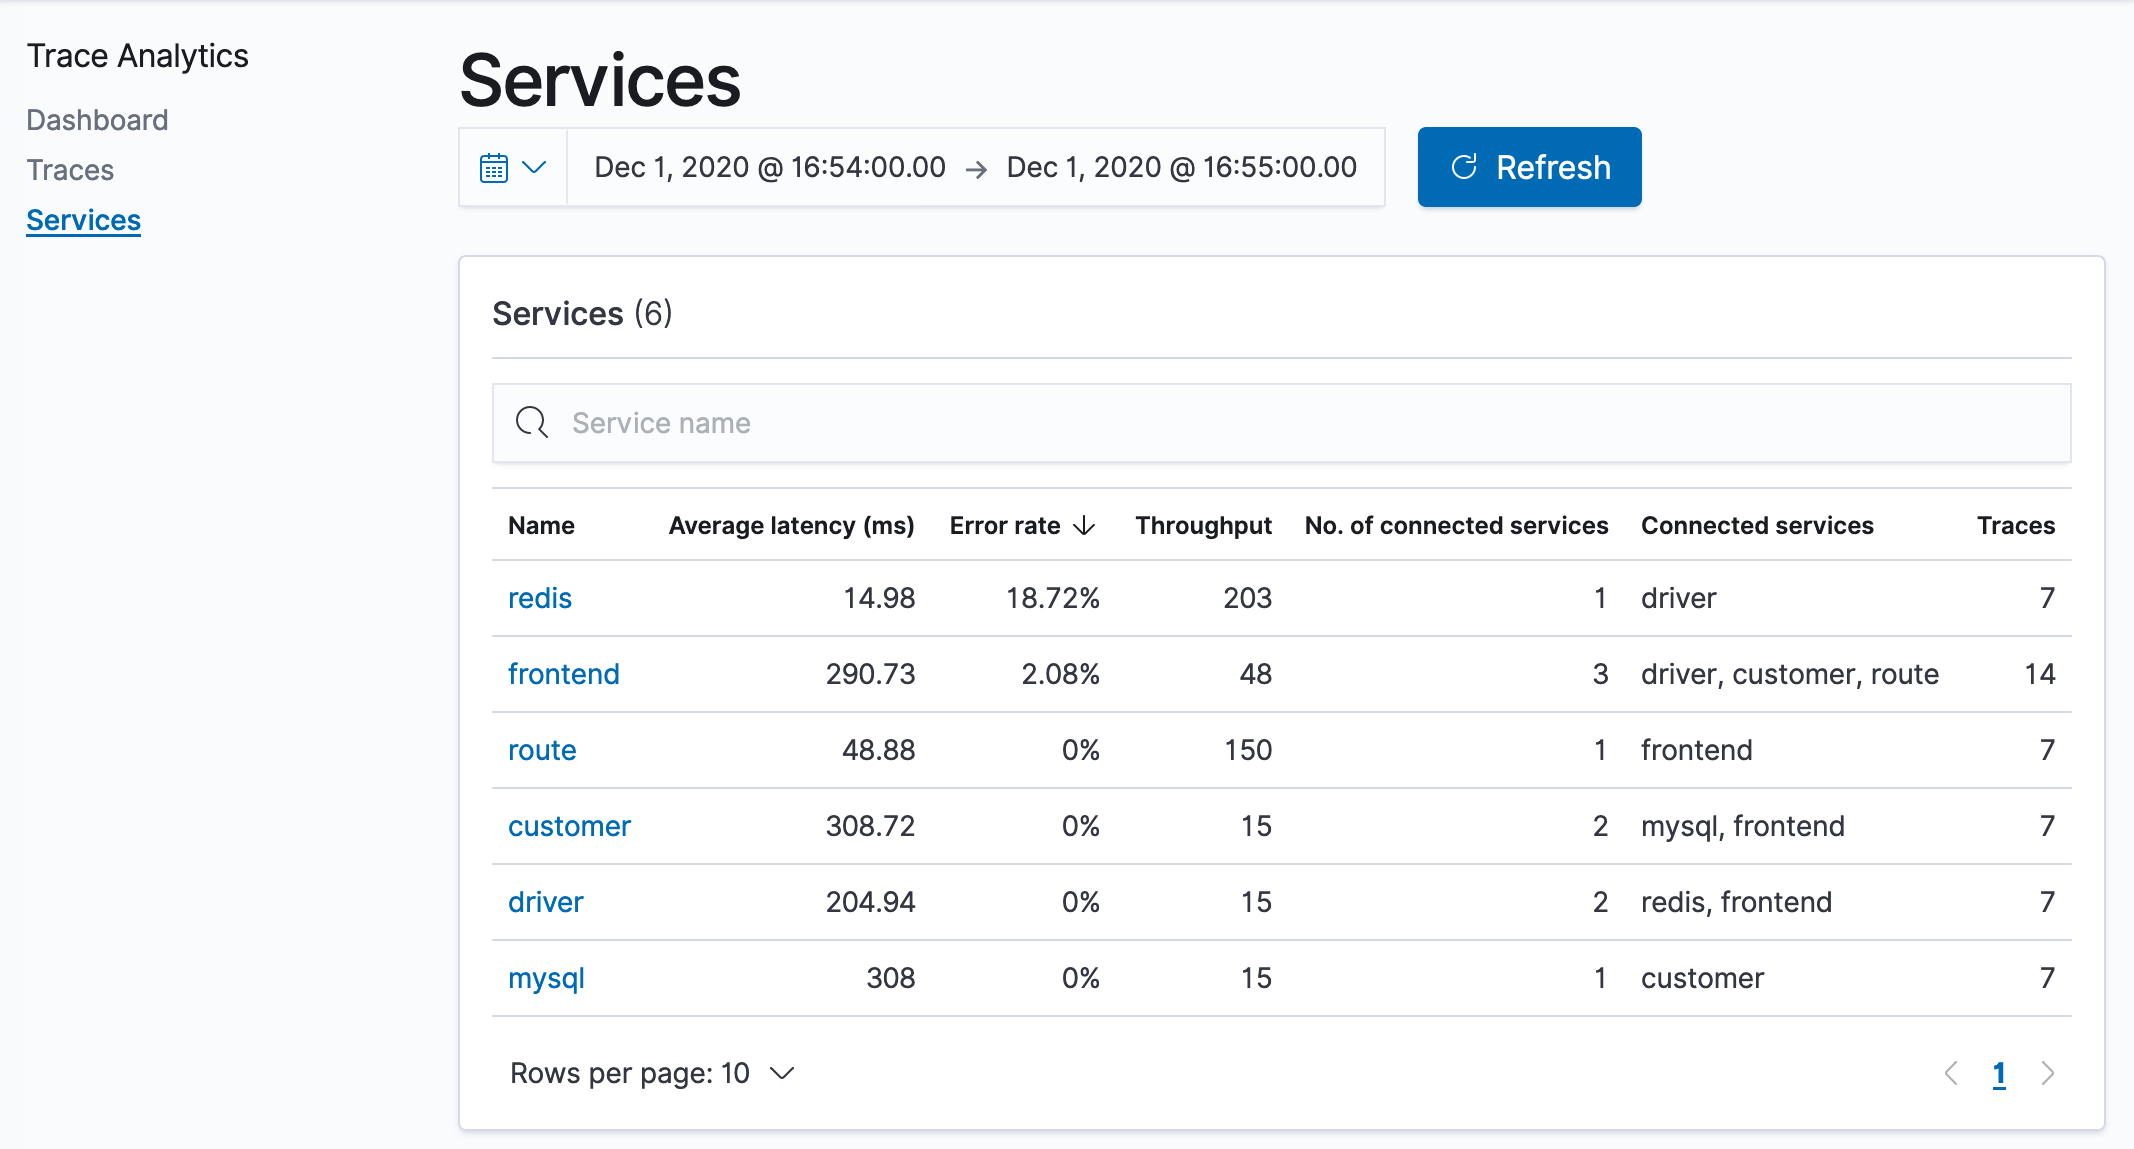
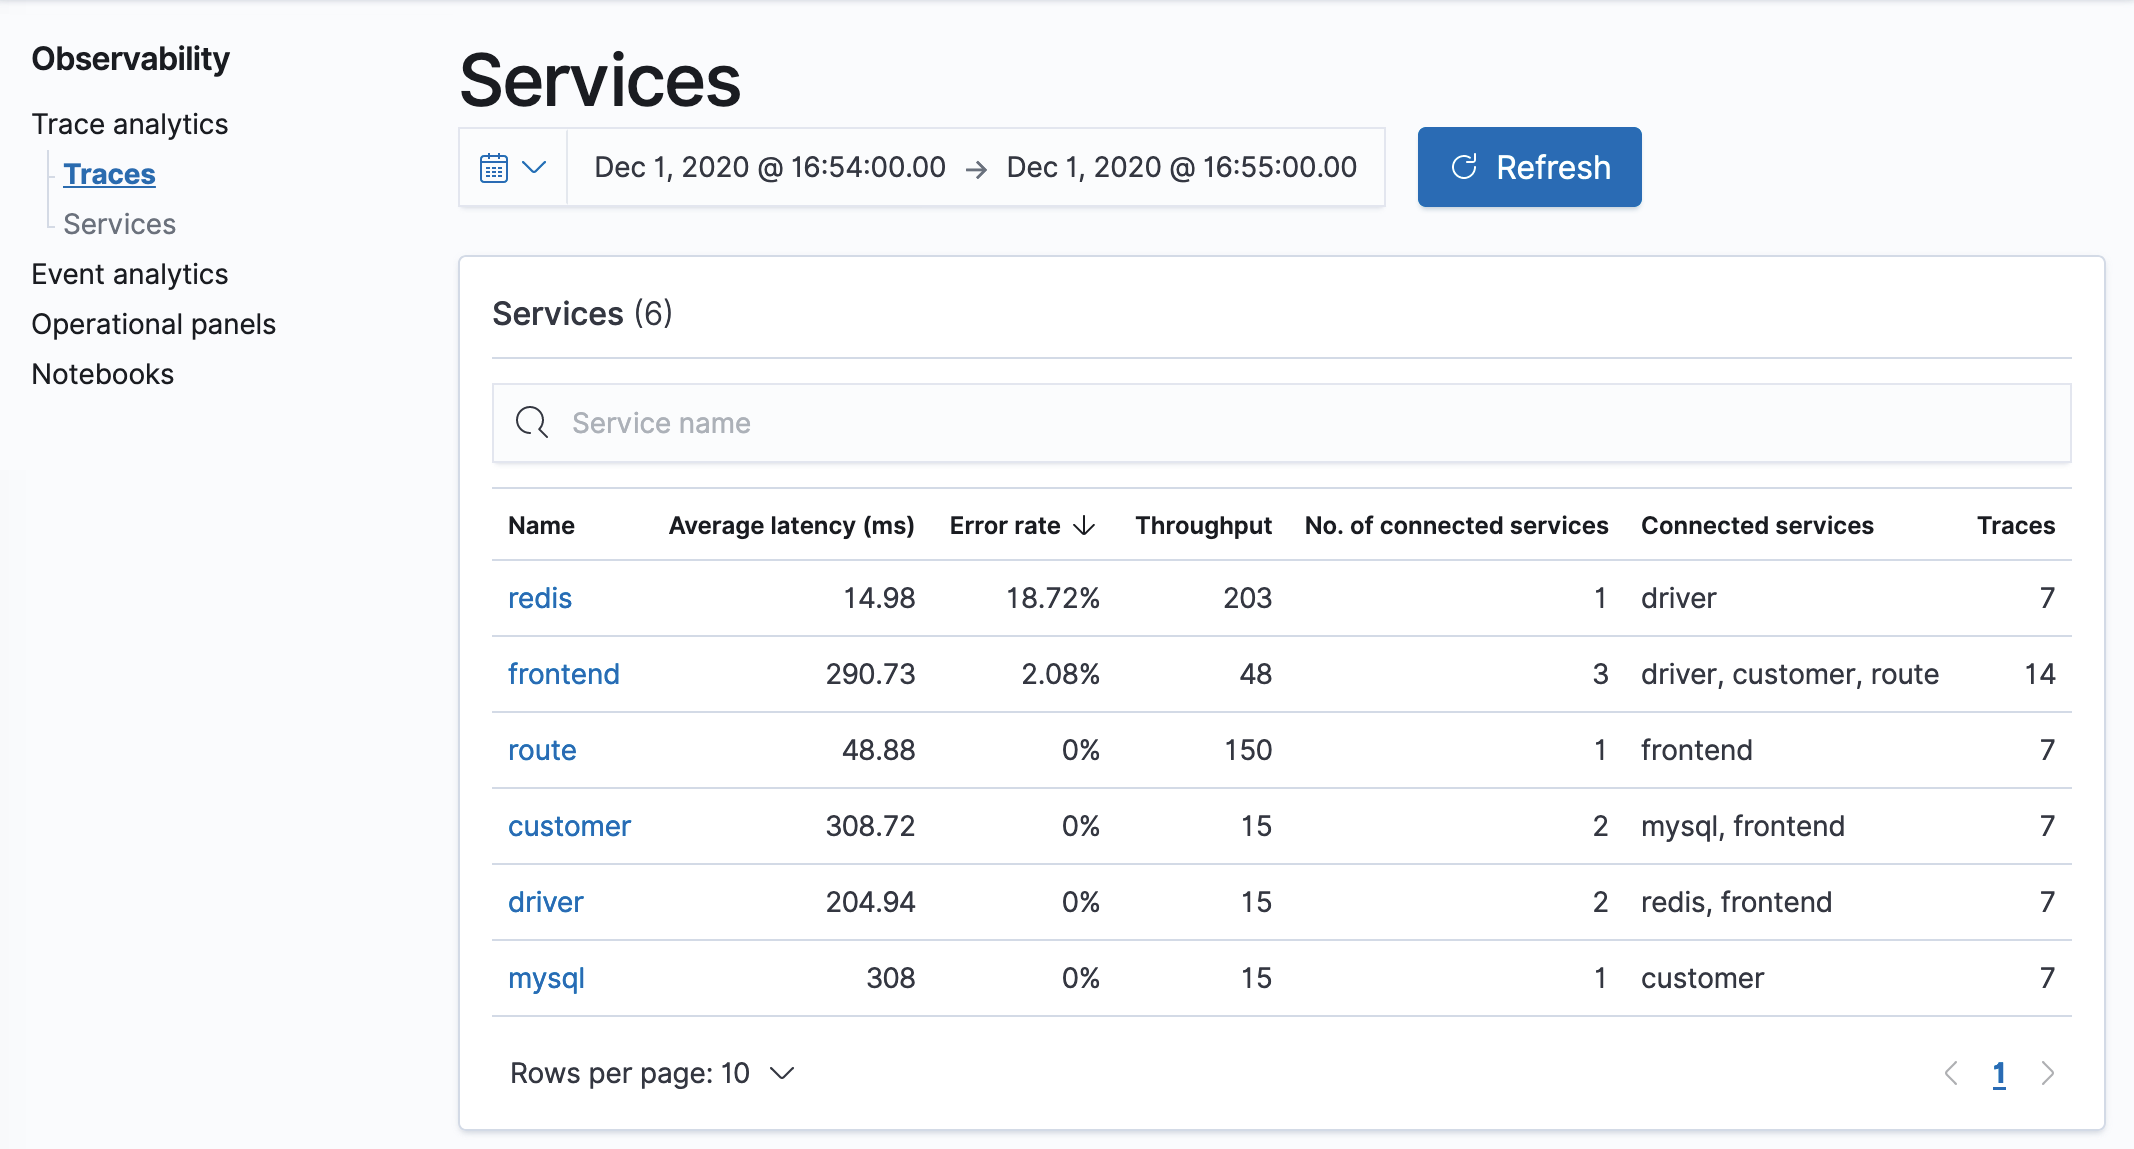
Added observability plugin

diff --git a/_observability-plugins/trace/get-started.md b/_observability-plugins/trace/get-started.md
@@ -20,9 +20,9 @@ OpenSearch Trace Analytics consists of two components---Data Prepper and the Tra
 
 1. The [OpenTelemetry Collector](https://opentelemetry.io/docs/collector/getting-started/) receives data from the application and formats it into OpenTelemetry data.
 
-1. [Data Prepper]({{site.url}}{{site.baseurl}}/monitoring-plugins/trace/data-prepper/) processes the OpenTelemetry data, transforms it for use in OpenSearch, and indexes it on an OpenSearch cluster.
+1. [Data Prepper]({{site.url}}{{site.baseurl}}/observability-plugins/trace/data-prepper/) processes the OpenTelemetry data, transforms it for use in OpenSearch, and indexes it on an OpenSearch cluster.
 
-1. The [Trace Analytics OpenSearch Dashboards plugin]({{site.url}}{{site.baseurl}}/monitoring-plugins/trace/ta-dashboards/) displays the data in near real-time as a series of charts and tables, with an emphasis on service architecture, latency, error rate, and throughput.
+1. The [Trace Analytics OpenSearch Dashboards plugin]({{site.url}}{{site.baseurl}}/observability-plugins/trace/ta-dashboards/) displays the data in near real-time as a series of charts and tables, with an emphasis on service architecture, latency, error rate, and throughput.
 
 
 ## Jaeger HotROD
@@ -80,4 +80,4 @@ curl -X GET -u 'admin:admin' -k 'https://localhost:9200/otel-v1-apm-span-000001/
 
 Navigate to `http://localhost:5601` in a web browser and choose **Trace Analytics**. You can see the results of your single click in the Jaeger HotROD web interface: the number of traces per API and HTTP method, latency trends, a color-coded map of the service architecture, and a list of trace IDs that you can use to drill down on individual operations.
 
-If you don't see your trace, adjust the timeframe in OpenSearch Dashboards. For more information on using the plugin, see [OpenSearch Dashboards plugin]({{site.url}}{{site.baseurl}}/monitoring-plugins/trace/ta-dashboards/).
+If you don't see your trace, adjust the timeframe in OpenSearch Dashboards. For more information on using the plugin, see [OpenSearch Dashboards plugin]({{site.url}}{{site.baseurl}}/observability-plugins/trace/ta-dashboards/).

diff --git a/_observability-plugins/event-analytics.md b/_observability-plugins/event-analytics.md
@@ -1,0 +1,33 @@
+---
+layout: default
+title: Event analytics
+nav_order: 20
+---
+
+# Event analytics
+
+Event analytics in observability is where you can use [Piped Processing Language]({{site.url}}{{site.baseurl}}/observability-plugins/ppl/index) (PPL) queries to build and view different visualizations of your data.
+
+## Get started with event analytics
+
+To get started, choose **Observability** in OpenSearch Dashboards, and then choose **Event analytics**. If you want to start exploring without adding any of your own data, choose **Add sample Events Data**, and Dashboards adds some sample visualizations you can interact with.
+
+## Build a query
+
+To generate custom visualizations, you must first specify a PPL query. OpenSearch Dashboards then automatically creates a visualization based on the results of your query.
+
+For example, the following PPL query returns a count of how many host addresses are currently in your data.
+
+```
+source = opensearch_dashboards_sample_data_logs | fields host | stats count()
+```
+
+By default, Dashboards shows results from the last 15 minutes of your data. To see data from a different timeframe, use the date and time selector.
+
+For more information about building PPL queries, see [Piped Processing Language]({{site.url}}{{site.baseurl}}/observability-plugins/ppl/index)
+
+## Save a visualization
+
+After Dashboards generates a visualization, you must save it if you want to return to it at a later time or if you want to add it to an [operational panel]({{site.url}}{{site.baseurl}}/observability-plugins/operational-panels).
+
+To save a visualization, expand the save dropdown menu next to **Run**, enter a name for your visualization, then choose **Save**. You can reopen any saved visualizations on the event analytics page.

diff --git a/_opensearch/data-streams.md b/_opensearch/data-streams.md
@@ -228,7 +228,7 @@ POST logs-redis/_rollover
 
 If you now perform a `GET` operation on the `logs-redis` data stream, you see that the generation ID is incremented from 1 to 2.
 
-You can also set up an [Index State Management (ISM) policy]({{site.url}}{{site.baseurl}}/im-plugin/ism/policies/) to automate the rollover process for the data stream.  
+You can also set up an [Index State Management (ISM) policy]({{site.url}}{{site.baseurl}}/im-plugin/ism/policies/) to automate the rollover process for the data stream.
 The ISM policy is applied to the backing indices at the time of their creation. When you associate a policy to a data stream, it only affects the future backing indices of that data stream.
 
 You also don’t need to provide the `rollover_alias` setting, because the ISM policy infers this information from the backing index.
@@ -262,4 +262,4 @@ You can use wildcards to delete more than one data stream.
 
 We recommend deleting data from a data stream using an ISM policy.
 
-You can also use [asynchronous search]({{site.url}}{{site.baseurl}}/search-plugins/async/index/) and [SQL]({{site.url}}{{site.baseurl}}/search-plugins/sql/index/) and [PPL]({{site.url}}{{site.baseurl}}/search-plugins/ppl/index/) to query your data stream directly. You can also use the security plugin to define granular permissions on the data stream name.
+You can also use [asynchronous search]({{site.url}}{{site.baseurl}}/search-plugins/async/index/) and [SQL]({{site.url}}{{site.baseurl}}/search-plugins/sql/index/) and [PPL]({{site.url}}{{site.baseurl}}/observability-plugins/ppl/index/) to query your data stream directly. You can also use the security plugin to define granular permissions on the data stream name.

diff --git a/_observability-plugins/operational-panels.md b/_observability-plugins/operational-panels.md
@@ -1,0 +1,25 @@
+---
+layout: default
+title: Operational panels
+nav_order: 30
+---
+
+# Operational panels
+
+Operational panels in OpenSearch Dashboards are collections of visualizations generated using [Piped Processing Language]({{site.url}}{{site.baseurl}}/observability-plugins/ppl/index) (PPL) queries.
+
+## Get started with operational panels
+
+If you want to start using operational panels without adding any data, expand the **Action** menu, choose **Add samples**, and Dashboards adds a set of operational panels with saved visualizations for you to explore.
+
+## Create an operational panel
+
+To create an operational panel and add visualizations:
+
+1. From the **Add Visualization** dropdown menu, choose **Select Existing Visualization** or **Create New Visualization**, which takes you to the [trace analytics]({{site.url}}{{site.baseurl}}/observability-plugins/event-analytics) explorer, where you can use PPL to create visualizations.
+1. If you're adding already existing visualizations, choose a visualization from the dropdown menu.
+1. Choose **Add**.
+
+![Sample operational panel]({{site.url}}{{site.baseurl}}/images/operational-panel.png)
+
+To search for a particular visualization in your operation panels, use PPL queries to search for data you've already added to your panel.

diff --git a/_observability-plugins/trace/data-prepper.md b/_observability-plugins/trace/data-prepper.md
@@ -105,7 +105,7 @@ service-map-pipeline:
         trace_analytics_service_map: true
 ```
 
-To learn more, see the [Data Prepper configuration reference]({{site.url}}{{site.baseurl}}/monitoring-plugins/trace/data-prepper-reference/).
+To learn more, see the [Data Prepper configuration reference]({{site.url}}{{site.baseurl}}/observability-plugins/trace/data-prepper-reference/).
 
 ## Configure the Data Prepper server
 Data Prepper itself provides administrative HTTP endpoints such as `/list` to list pipelines and `/metrics/prometheus` to provide Prometheus-compatible metrics data. The port which serves these endpoints, as well as TLS configuration, is specified by a separate YAML file. Example:

diff --git a/_observability-plugins/trace/data-prepper-reference.md b/_observability-plugins/trace/data-prepper-reference.md
@@ -7,7 +7,7 @@ nav_order: 25
 
 # Data Prepper configuration reference
 
-This page lists all supported Data Prepper sources, buffers, preppers, and sinks, along with their associated options. For example configuration files, see [Data Prepper]({{site.url}}{{site.baseurl}}/monitoring-plugins/trace/data-prepper/).
+This page lists all supported Data Prepper sources, buffers, preppers, and sinks, along with their associated options. For example configuration files, see [Data Prepper]({{site.url}}{{site.baseurl}}/observability-plugins/trace/data-prepper/).
 
 
 ## Data Prepper server options

diff --git a/_observability-plugins/index.md b/_observability-plugins/index.md
@@ -1,0 +1,14 @@
+---
+layout: default
+title: About Observability
+nav_order: 1
+has_children: false
+redirect_from:
+  - /observability-plugins/
+---
+
+# About Observability
+OpenSearch Dashboards
+{: .label .label-yellow :}
+
+The Observability plugins are a collection of plugins that let you create visualizations in a single interface.

diff --git a/_observability-plugins/trace/index.md b/_observability-plugins/trace/index.md
@@ -1,11 +1,9 @@
 ---
 layout: default
 title: Trace analytics
-nav_order: 48
+nav_order: 10
 has_children: true
 has_toc: false
-redirect_from:
-  - /monitoring-plugins/trace/
 ---
 
 # Trace Analytics

diff --git a/_observability-plugins/notebooks.md b/_observability-plugins/notebooks.md
@@ -1,7 +1,7 @@
 ---
 layout: default
 title: Notebooks
-nav_order: 50
+nav_order: 85
 redirect_from: /notebooks/
 has_children: false
 ---
